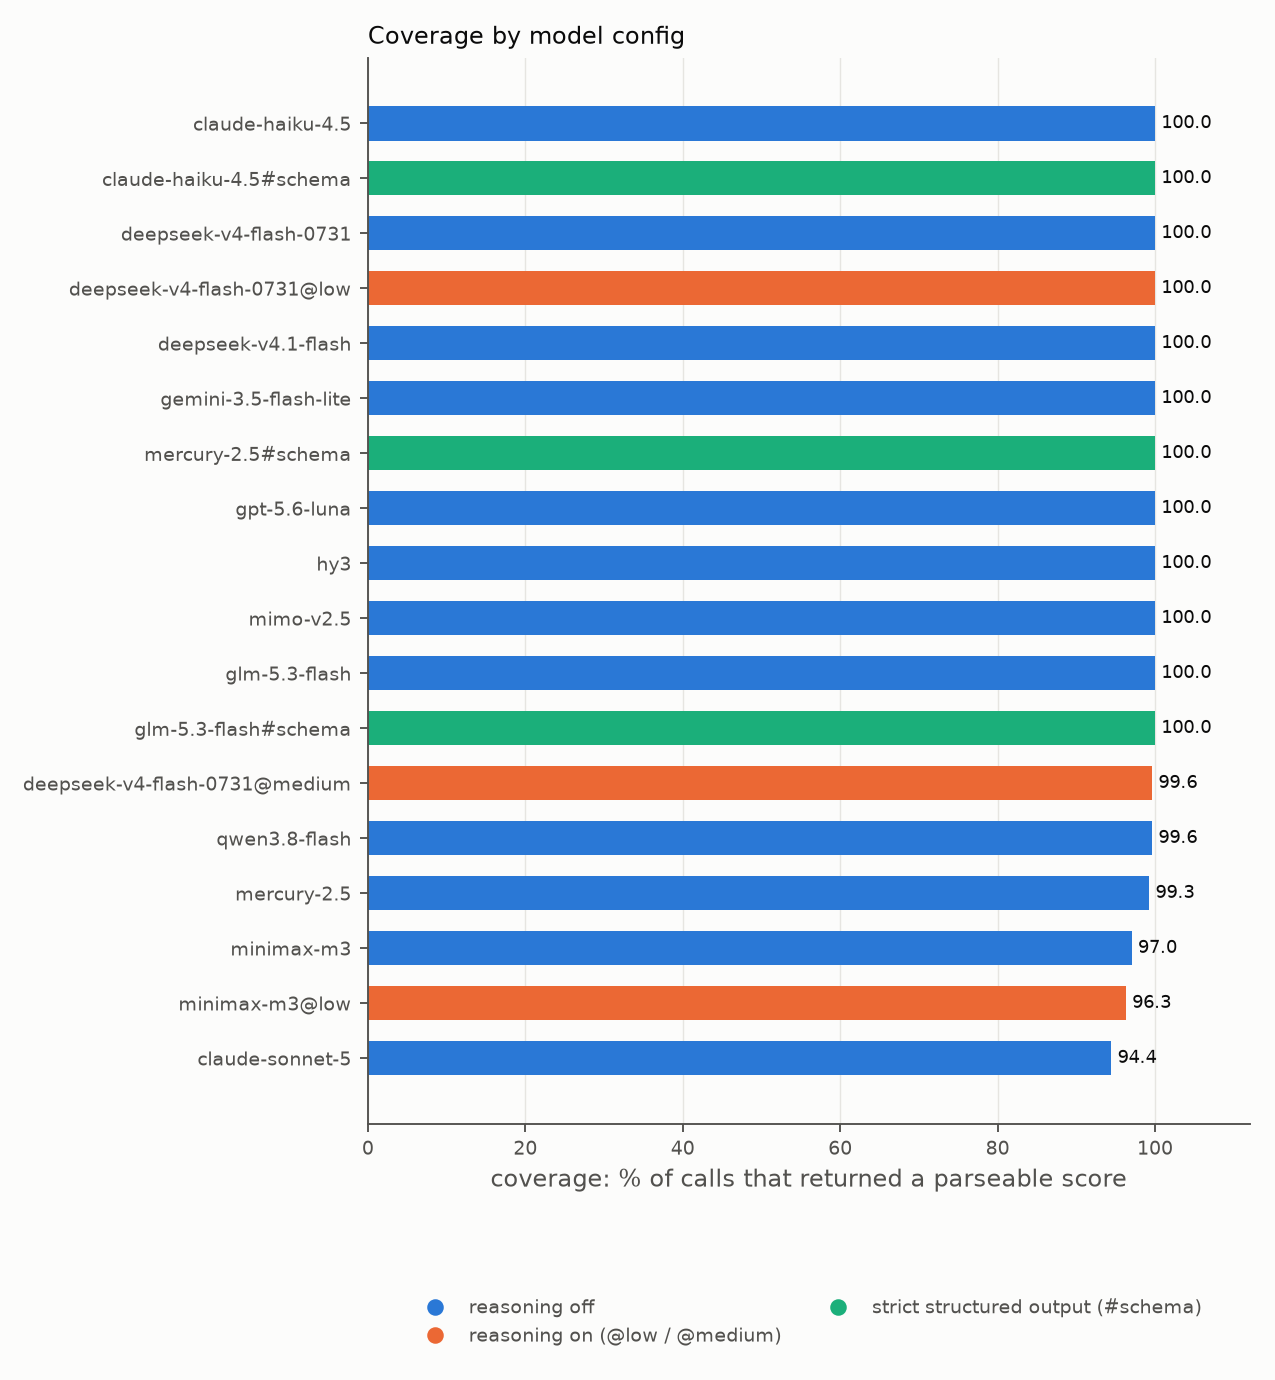
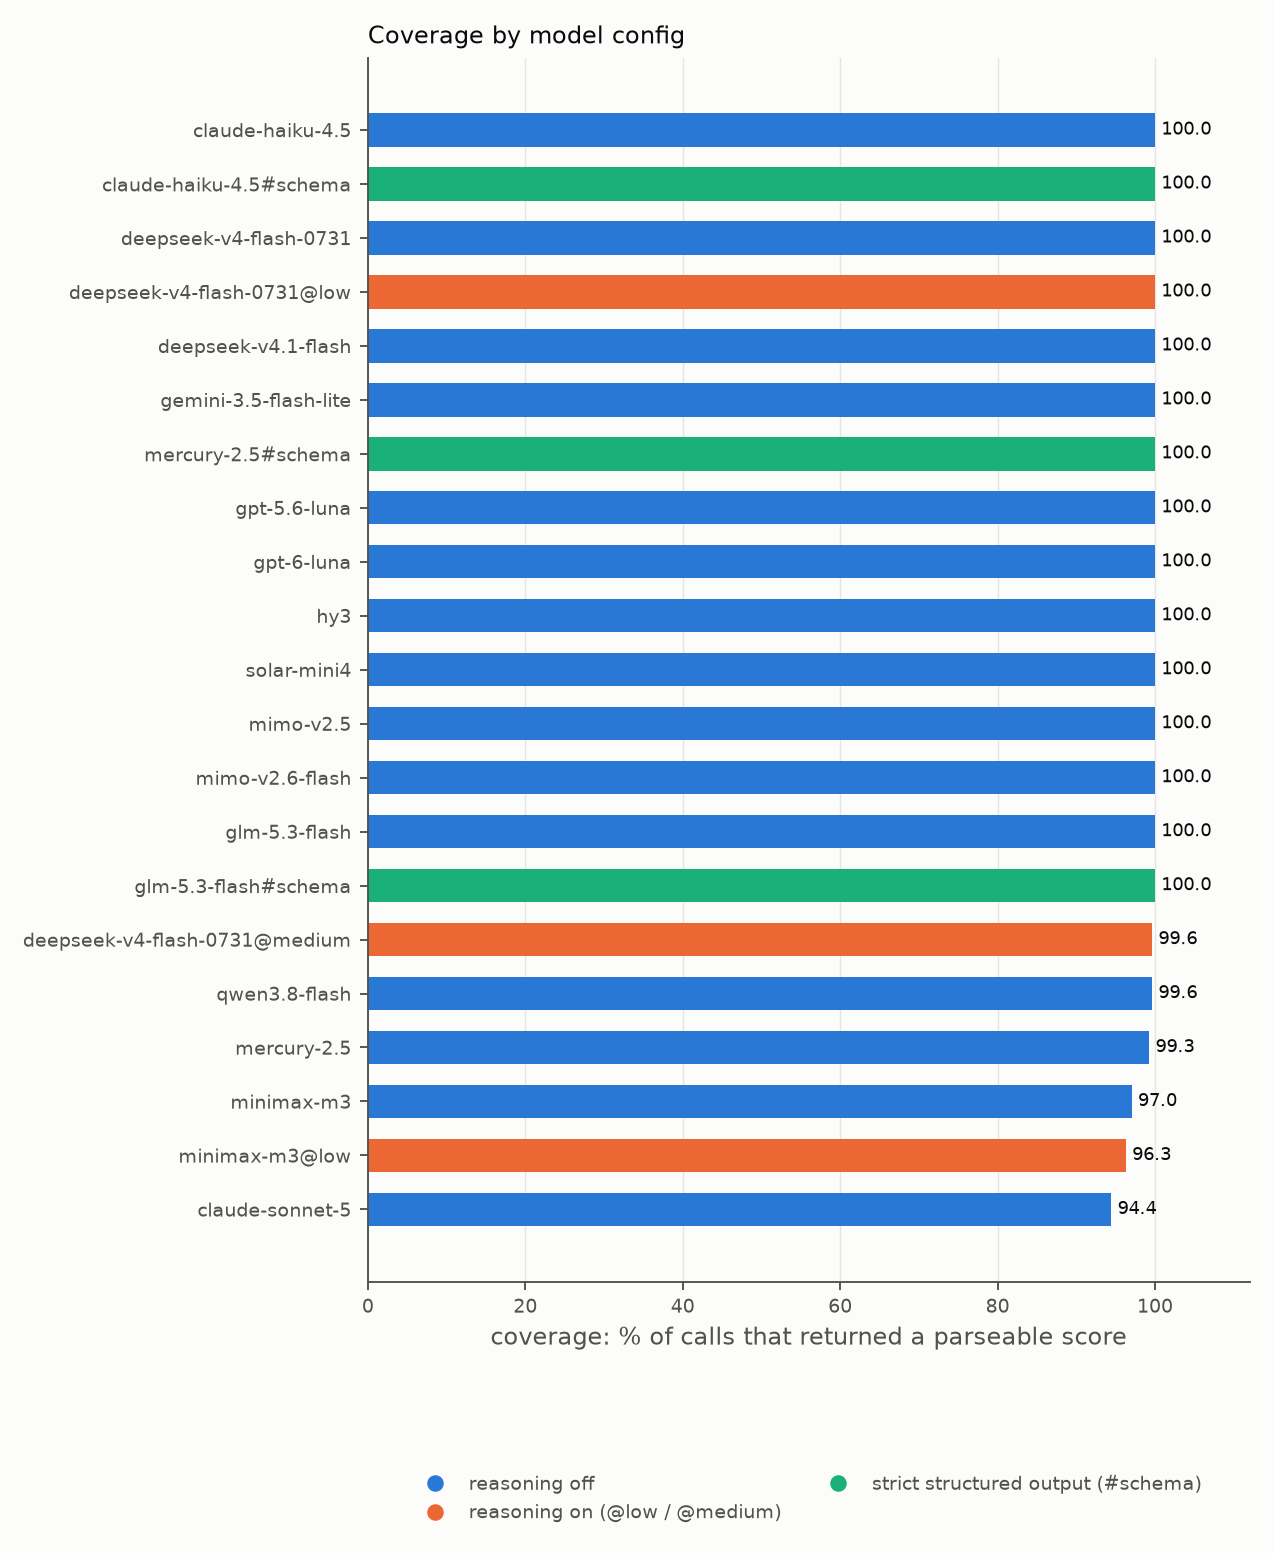
analyze: a model is usable when it leaves no preprint unscored, not at 99% of calls
The 99% per-call bar treated a miss a retry recovers the same as a preprint never scored.
MiniMax M3 @low failed 10 of 270 calls, each on a different preprint, never twice on one,
while the ceiling itself left 4 preprints unscored on all three tries. Retrying is cheap and
the intern can do it, so the bar is now the blind spot, not the miss.

- analyze: per-model `unscored` (preprints with no score in any repeat) and `usable`
  (unscored <= MAX_UNSCORED = 0) replace USABLE_COV; best_usable, the disagreement audit and
  the figure read `usable`. results.csv and results.md gain an `unscored` column.
- gate.py: --min-cov becomes --max-unscored (default 0); hy3 still passes every check.
- intern.score retries a call that returns no score up to twice and charges every call.
- Result: every challenger is usable; minimax-m3@low (MAE 0.072) is the reference, hy3 next at
  0.088 and 4.5x cheaper, matching or beating it in 4% of resamples. The pre-registered
  ensembles stay as registered. The three 2026-10-03 additions land in the bottom third.
- Regenerated results/, docs/RESULTS.md table and prose, README short answer, METRICS, RUNNING
  and INTERN docs; the published-data test now pins minimax-m3@low as the reference.

diff --git a/figures.py b/figures.py
@@ -2,7 +2,8 @@
 
 Palette: categorical slots 1-3 of the validated default (blue = reasoning off, orange = reasoning
 on, aqua = strict structured output); derived rows (ens:, baseline:) are hollow markers; rows
-below USABLE_COV coverage are hollow and MUTED (3.6:1 on the surface), so the eye does not land
+that leave a preprint unscored in every repeat (analyze: usable) are hollow and MUTED (3.6:1
+on the surface), so the eye does not land
 on a model that cannot be used; text in ink tokens, recessive grid, no dashed rules. Each dot
 carries a number, placed so none collide (_place_labels), and a key below the plot names it.
 """
@@ -14,7 +15,7 @@ from pathlib import Path
 
 import matplotlib
 
-from analyze import DERIVED, USABLE_COV
+from analyze import DERIVED
 
 matplotlib.use("Agg")
 import matplotlib.pyplot as plt  # noqa: E402
@@ -49,8 +50,8 @@ def _style(ax) -> None:
     ax.set_axisbelow(True)
 
 
-def _color(label: str, cov: float = 100.0) -> str:
-    if cov < USABLE_COV:
+def _color(label: str, usable: bool = True) -> str:
+    if not usable:
         return MUTED
     if "#schema" in label:
         return SCHEMA
@@ -59,7 +60,7 @@ def _color(label: str, cov: float = 100.0) -> str:
 
 def _legend(ax, muted: bool = False, **kw) -> None:
     dot = dict(marker="o", ls="")
-    unusable = f"below {USABLE_COV:.0f}% coverage: not usable"
+    unusable = "leaves a preprint unscored in 3 tries: not usable"
     handles = [
         *([Line2D([], [], color=MUTED, mfc=SURFACE, label=unusable, **dot)] if muted else []),
         Line2D([], [], color=BASE, label="reasoning off", **dot),
@@ -75,14 +76,14 @@ def _scatter_points(ax, pts: list[tuple[str, dict]]) -> list[tuple[str, tuple, s
     marker repeated); return (number, xy, ink) for _place_labels."""
     labels, key = [], []
     for n, (k, r) in enumerate(pts, 1):
-        color, xy = _color(k, r["cov"]), (r["cost_usd"], r["mae"])
+        color, xy = _color(k, r["usable"]), (r["cost_usd"], r["mae"])
         if not math.isnan(r["mae_lo"] + r["mae_hi"]):
             err = [[r["mae"] - r["mae_lo"]], [r["mae_hi"] - r["mae"]]]
             ax.errorbar(*xy, yerr=err, fmt="none", ecolor=color, elinewidth=1, alpha=0.6, zorder=2)
         face = SURFACE if r["derived"] or color == MUTED else color
         ax.scatter(*xy, s=MARKER, facecolor=face, edgecolor=color, lw=1.6, zorder=3)
         muted = color == MUTED
-        name = f"{n}  {_short(k)}" + (f" ({r['cov']:.1f}% cov)" if muted else "")
+        name = f"{n}  {_short(k)}" + (f" ({r['unscored']} never scored)" if muted else "")
         key.append(Line2D([], [], marker="o", ls="", color=color, mfc=face, label=name))
         labels.append((str(n), xy, INK2 if muted else INK))
     kw = dict(frameon=False, fontsize=7.5, labelcolor=INK, handletextpad=0.3, columnspacing=1.5)
@@ -158,7 +159,7 @@ def plot_mae_vs_cost(m: dict, out: Path, ceiling: str) -> None:
     ax.set_ylabel(f"MAE vs {_short(ceiling)} (lower is better)", color=INK2)
     title = "Agreement with the ceiling vs. price per call"
     ax.set_title(title, color=INK, fontsize=10, loc="left")
-    _legend(ax, muted=True)
+    _legend(ax, muted=not all(r["usable"] for _, r in pts))
     fig.canvas.draw()  # runs the layout and fixes the legend's spot before the numbers go in
     _place_labels(ax, numbers)
     _save(fig, out / "fig_mae_vs_cost.png")

diff --git a/analyze.py b/analyze.py
@@ -11,7 +11,9 @@ Metrics, per model config:
   mae         mean over preprints of |model mean - ceiling mean| (agreement with the ceiling)
   mae_lo/hi   95% bootstrap interval on mae: preprints resampled with replacement (bootstrap.py)
   mae_diff_p  paired bootstrap: share of resamples where this model's MAE <= the best usable
-              model's (lowest MAE at >= USABLE_COV coverage). 1.0 for the reference itself.
+              model's (lowest MAE among usable models). 1.0 for the reference itself.
+  unscored    preprints with no parseable score in any repeat. A model is usable when this is
+              0: a miss that a retry recovers costs a call, a paper never scored is a blind spot
   spearman    rank correlation between the model's and the ceiling's per-preprint means
   kappa_0.5   Cohen's kappa on the decision score >= 0.5, model vs ceiling (agreement.py)
   alpha_ord   Krippendorff's alpha over 0.1 bins, squared bin distance, model vs ceiling
@@ -46,6 +48,7 @@ CEILING = "anthropic/claude-sonnet-5"
 COLUMNS = (
     "label",
     "cov",
+    "unscored",
     "strict",
     "cov_strict",
     "cov_lenient",
@@ -69,7 +72,7 @@ COLUMNS = (
 )
 VIOLATION_AT = 0.5
 SHORTLIST = 10
-USABLE_COV = 99.0
+MAX_UNSCORED = 0  # usable: every preprint scored within the repeats
 DERIVED = ("baseline:", "ens:")  # rows computed from other rows, not API calls
 UNSCALED = ("baseline:",)  # not a fit score: MAE against the ceiling is meaningless
 
@@ -128,8 +131,11 @@ def _one(by_item: dict, ceiling_means: dict) -> dict:
     sig = [st.stdev(s) for rs in by_item.values() if len(s := _scores(rs)) >= 2]
     costs = [c for r in runs if (c := r.get("cost_usd")) is not None]
     off = [r for r in scored if r["lane"] == "off"]
+    unscored = sum(1 for rs in by_item.values() if not _scores(rs))
     return {
         "cov": 100 * len(scored) / len(runs),
+        "unscored": unscored,
+        "usable": unscored <= MAX_UNSCORED,
         "strict": 100 * sum(bool(r.get("strict_json")) for r in scored) / len(scored)
         if scored
         else math.nan,
@@ -146,9 +152,10 @@ def _one(by_item: dict, ceiling_means: dict) -> dict:
 
 def best_usable(m: dict, ceiling: str) -> str:
     """Reference for the paired test: lowest MAE among single (non-derived, non-ceiling) models
-    at >= USABLE_COV coverage; falls back to the lowest MAE overall, then to the ceiling."""
+    among usable models (every preprint scored within the repeats); falls back to the lowest
+    MAE overall, then to the ceiling."""
     cands = [k for k, r in m.items() if k != ceiling and not (math.isnan(r["mae"]) or r["derived"])]
-    usable = [k for k in cands if m[k]["cov"] >= USABLE_COV] or cands or [ceiling]
+    usable = [k for k in cands if m[k]["usable"]] or cands or [ceiling]
     return min(usable, key=lambda k: m[k]["mae"])
 
 

diff --git a/gate.py b/gate.py
@@ -1,6 +1,6 @@
 """Exit-code gate for the re-run: is the production model still fit to ship?
 
-    uv run python gate.py --model tencent/hy3 --min-cov 99 --max-mae-hi 0.12 --min-top10 5 \\
+    uv run python gate.py --model tencent/hy3 --max-unscored 0 --max-mae-hi 0.12 --min-top10 5 \\
         --max-violations 2
 
 Reads results/results.csv, prints one PASS/FAIL line per check plus a final verdict, exits 0
@@ -23,7 +23,7 @@ MODELS_URL = "https://openrouter.ai/api/v1/models"
 
 
 class Thresholds(NamedTuple):
-    min_cov: float
+    max_unscored: int
     max_mae_hi: float
     min_top10: int
     max_violations: int
@@ -31,10 +31,10 @@ class Thresholds(NamedTuple):
 
 def checks(row: dict, t: Thresholds) -> list[tuple[str, bool, str]]:
     """(name, passed, detail) for each threshold against one results.csv row."""
-    cov, mae_hi = float(row["cov"]), float(row["mae_hi"])
+    unscored, mae_hi = int(row["unscored"]), float(row["mae_hi"])
     top10, viol = int(row["top10"]), int(row["violations"])
     return [
-        ("cov", cov >= t.min_cov, f"{cov:.1f} >= {t.min_cov}"),
+        ("unscored", unscored <= t.max_unscored, f"{unscored} <= {t.max_unscored}"),
         ("mae_hi", mae_hi <= t.max_mae_hi, f"{mae_hi:.3f} <= {t.max_mae_hi}"),
         ("top10", top10 >= t.min_top10, f"{top10} >= {t.min_top10}"),
         ("violations", viol <= t.max_violations, f"{viol} <= {t.max_violations}"),
@@ -51,7 +51,7 @@ def _args(argv: list[str] | None) -> argparse.Namespace:
     ap = argparse.ArgumentParser(description=__doc__.splitlines()[0])
     ap.add_argument("--model", required=True)
     ap.add_argument("--csv", type=Path, default=Path("results/results.csv"))
-    ap.add_argument("--min-cov", type=float, default=99.0)
+    ap.add_argument("--max-unscored", type=int, default=0, help="papers never scored in 3 tries")
     ap.add_argument("--max-mae-hi", type=float, default=0.12)
     ap.add_argument("--min-top10", type=int, default=5)
     ap.add_argument("--max-violations", type=int, default=2)
@@ -64,7 +64,7 @@ def main(argv: list[str] | None = None) -> int:
     if a.model not in rows:
         print(f"FAIL  {a.model} has no row in {a.csv}\nFAIL")
         return 1
-    t = Thresholds(a.min_cov, a.max_mae_hi, a.min_top10, a.max_violations)
+    t = Thresholds(a.max_unscored, a.max_mae_hi, a.min_top10, a.max_violations)
     listed = a.model in live_model_ids()
     results = checks(rows[a.model], t) + [
         ("listed", listed, "id listed by OpenRouter" if listed else "id not listed by OpenRouter")

diff --git a/tests/test_metrics.py b/tests/test_metrics.py
@@ -248,7 +248,7 @@ def test_results_table_roundtrip(tmp_path, rows):
     report.write_tables(m, tmp_path)
     csv = (tmp_path / "results.csv").read_text().splitlines()
     assert csv[0].startswith(
-        "label,cov,strict,cov_strict,cov_lenient,cov_repaired,violations,sigma,mae,mae_lo,mae_hi,mae_diff_p,spearman,kappa_0.5,alpha_ord,kappa_top10,len_rho,top10"
+        "label,cov,unscored,strict,cov_strict,cov_lenient,cov_repaired,violations,sigma,mae,mae_lo,mae_hi,mae_diff_p,spearman,kappa_0.5,alpha_ord,kappa_top10,len_rho,top10"
     )
     assert json.dumps(m)  # serializable
 
@@ -390,11 +390,11 @@ def test_violations_count_calls_not_preprints(rows):
     assert len({r["doi"] for r in off}) == 1 and m["violations"] == 2
 
 
-def test_rows_below_usable_coverage_are_greyed_out():
+def test_unusable_rows_are_greyed_out():
     import figures
 
-    assert figures._color("a/b", analyze.USABLE_COV - 0.1) == figures.MUTED
-    assert figures._color("a/b", analyze.USABLE_COV) == figures.BASE
+    assert figures._color("a/b", usable=False) == figures.MUTED
+    assert figures._color("a/b") == figures.BASE
     assert figures._color("a/b@low") == figures.REASONING  # the coverage chart never mutes
 
 
@@ -440,3 +440,12 @@ def test_mae_chart_numbers_each_dot_and_keys_the_names_closest_first(tmp_path, r
     assert sorted(t.get_text() for t in fig.axes[0].texts) == ["1", "2"]
     key = [t.get_text().split()[:2] for t in fig.legends[0].get_texts()]
     assert key == [["1", "m"], ["2", "far"]]  # m sits closer to the ceiling; provider dropped
+
+
+def test_usable_means_every_paper_scored_within_the_repeats(rows):
+    # misses a call on every paper but never a whole paper: usable at 67% per-call coverage
+    rows += [row("x/flaky", d, i, None if i == 0 else 0.8) for d in "abc" for i in range(3)]
+    m = analyze.metrics(rows, CEILING)
+    assert (m["m"]["unscored"], m["m"]["usable"]) == (1, False)  # item c never scored
+    assert m["x/flaky"]["cov"] == pytest.approx(200 / 3) and m["x/flaky"]["unscored"] == 0
+    assert m["x/flaky"]["usable"] and analyze.best_usable(m, CEILING) == "x/flaky"

diff --git a/disagreement.py b/disagreement.py
@@ -1,8 +1,9 @@
 """Disagreement audit: which preprints do the usable models split on most, and least.
 
-For each preprint, take every usable model's mean score (>= USABLE_COV coverage, ceiling excluded)
-and rank preprints by the population std dev of those means, highest first. The items at the top
-are the ones a human should read; the mirror list (lowest spread) shows what everyone agrees on.
+For each preprint, take every usable model's mean score (no preprint left unscored, ceiling
+excluded) and rank preprints by the population std dev of those means, highest first. The items
+at the top are the ones a human should read; the mirror list (lowest spread) shows what everyone
+agrees on.
 """
 
 from __future__ import annotations
@@ -11,8 +12,6 @@ import statistics as st
 from collections import defaultdict
 from typing import NamedTuple
 
-from analyze import USABLE_COV
-
 
 class Spec(NamedTuple):
     ceiling: str
@@ -20,7 +19,7 @@ class Spec(NamedTuple):
 
 
 def usable_labels(m: dict, ceiling: str) -> list[str]:
-    return sorted(k for k, r in m.items() if k != ceiling and r["cov"] >= USABLE_COV)
+    return sorted(k for k, r in m.items() if k != ceiling and r["usable"])
 
 
 def _means(rows: list[dict]) -> tuple[dict, dict]:
@@ -82,7 +81,8 @@ def markdown(rows: list[dict], m: dict, spec: Spec) -> str:
         f"# Where the {n_models} usable models disagree",
         "",
         f"Population std dev of the per-model mean score, over the {n_models} usable models "
-        f"(>= {USABLE_COV:.0f}% coverage, ceiling excluded). `ceiling` is the ceiling's own mean.",
+        "(every preprint scored within the repeats, ceiling excluded). `ceiling` is the "
+        "ceiling's own mean.",
         "",
         f"## Top {len(top)} most disputed",
         "",

diff --git a/report.py b/report.py
@@ -35,6 +35,7 @@ def _cells(k: str, r: dict) -> list[str]:
     return [
         f"_{k}_" if r["derived"] else k,
         f"{r['cov']:.1f}",
+        str(r["unscored"]),
         f"{r['strict']:.1f}",
         " / ".join(_num(r[c], ".1f") for c in ("cov_strict", "cov_lenient", "cov_repaired")),
         str(r["violations"]),
@@ -52,11 +53,12 @@ def _cells(k: str, r: dict) -> list[str]:
 
 
 def write_md(m: dict, path: Path) -> None:
-    cols = "| model | cov% | strict% | ladder strict / lenient / repaired | wrong-field | sigma "
+    cols = "| model | cov% | unscored | strict% | ladder strict / lenient / repaired "
+    cols += "| wrong-field | sigma "
     cols += "| MAE vs ceiling [95% CI] | P(<= best) |"
     md = [
         f"{cols} rho | kappa | alpha | len rho | top-{SHORTLIST} | latency s | $/call |",
-        "|---|---:|---:|---:|---:|---:|---:|---:|---:|---:|---:|---:|---:|---:|---:|",
+        "|---|---:|---:|---:|---:|---:|---:|---:|---:|---:|---:|---:|---:|---:|---:|---:|",
     ]
     md += ["| " + " | ".join(_cells(k, r)) + " |" for k, r in m.items()]
     path.write_text("\n".join(md) + "\n")

diff --git a/intern/run.py b/intern/run.py
@@ -35,6 +35,7 @@ BUDGET_USD = 0.25  # 14 days on all three servers was 956 first postings (2026-1
 EST_PER_CALL = 0.0001  # generous: hy3 measured $0.00006
 MIN_GAP_DAYS = 13
 WORKERS = 8
+RETRIES = 2  # the bakeoff calls a model usable when every paper scores within 3 tries
 
 
 def load_seen(path: Path) -> dict:
@@ -83,6 +84,11 @@ def score(items: list[dict], model: tuple[str, str]) -> list[dict]:
     tasks = [(model, it, 0) for it in items]
     with ThreadPoolExecutor(WORKERS) as pool:
         rows = list(pool.map(harness.run_one, tasks))
+        for _ in range(RETRIES):  # a miss a retry recovers costs a call; a skipped paper is lost
+            todo = [i for i, r in enumerate(rows) if r.get("fit_score") is None]
+            for i, r in zip(todo, pool.map(harness.run_one, [tasks[i] for i in todo]), strict=True):
+                r["cost_usd"] = (r.get("cost_usd") or 0) + (rows[i].get("cost_usd") or 0)
+                rows[i] = r
     rows = [
         r | it for r, it in zip(rows, items, strict=True)
     ]  # harness rows cut the title to 120 chars

diff --git a/tests/test_intern.py b/tests/test_intern.py
@@ -288,3 +288,20 @@ def test_live_run_sends_and_records(monkeypatch, tmp_path):
     assert len(sent) == 1 and len(sent[0].picks) == 2
     assert json.loads(seen_path.read_text())["last_sent"] == date.today().isoformat()
     assert run.main([]) == 0 and len(sent) == 1  # not due again: nothing sent
+
+
+def test_score_retries_unscored_papers_twice_and_charges_every_call(monkeypatch):
+    calls = {}
+
+    def flaky(t):
+        doi = t[1]["doi"]
+        calls[doi] = calls.get(doi, 0) + 1
+        ok = doi == "second-try" and calls[doi] > 1
+        return {"doi": doi, "fit_score": 0.5 if ok else None, "cost_usd": 0.001}
+
+    monkeypatch.setattr(run.harness, "run_one", flaky)
+    got = {r["doi"]: r for r in run.score([{"doi": "second-try"}, {"doi": "never"}], ("m", "off"))}
+    assert got["second-try"]["fit_score"] == 0.5 and calls["second-try"] == 2
+    assert got["second-try"]["cost_usd"] == pytest.approx(0.002)
+    assert got["never"]["fit_score"] is None and calls["never"] == 3
+    assert got["never"]["cost_usd"] == pytest.approx(0.003)

diff --git a/tests/test_gate.py b/tests/test_gate.py
@@ -7,12 +7,12 @@ import pytest
 
 import gate
 
-ROW = {"label": "x/m", "cov": "99.5", "mae_hi": "0.11", "top10": "6", "violations": "1"}
+ROW = {"label": "x/m", "unscored": "0", "mae_hi": "0.11", "top10": "6", "violations": "1"}
 ARGS = [
     "--model",
     "x/m",
-    "--min-cov",
-    "99",
+    "--max-unscored",
+    "0",
     "--max-mae-hi",
     "0.12",
     "--min-top10",
@@ -33,9 +33,9 @@ def csv_path(tmp_path):
 
 
 def test_checks_pass_and_fail_on_thresholds():
-    ok = gate.checks(ROW, gate.Thresholds(99, 0.12, 5, 2))
+    ok = gate.checks(ROW, gate.Thresholds(0, 0.12, 5, 2))
     assert all(passed for _, passed, _ in ok) and len(ok) == 4
-    bad = gate.checks(ROW, gate.Thresholds(99.9, 0.10, 7, 0))  # every threshold missed
+    bad = gate.checks(ROW, gate.Thresholds(-1, 0.10, 7, 0))  # every threshold missed
     assert not any(passed for _, passed, _ in bad)
 
 

diff --git a/tests/test_disagreement.py b/tests/test_disagreement.py
@@ -14,7 +14,7 @@ def _rows():
         "hi": {"a": 0.9, "b": 0.5, "c": 0.5},
         "lo": {"a": 0.1, "b": 0.5, "c": 0.5},
         "mid": {"a": 0.5, "b": 0.6, "c": 0.5},
-        "flaky": {"a": 0.0, "b": 0.0, "c": 0.0},  # below the coverage floor, must be ignored
+        "flaky": {"a": 0.0, "b": 0.0, "c": 0.0},  # leaves papers unscored: must be ignored
     }
     meta = {
         "a": ("A title", "genomics", "in"),
@@ -37,7 +37,9 @@ def _rows():
 
 
 def _metrics():
-    return {k: {"cov": 100.0} for k in (CEILING, "hi", "lo", "mid")} | {"flaky": {"cov": 50.0}}
+    return {k: {"usable": True} for k in (CEILING, "hi", "lo", "mid")} | {
+        "flaky": {"usable": False}
+    }
 
 
 def test_usable_labels_excludes_ceiling_and_low_coverage():

diff --git a/tests/test_bootstrap.py b/tests/test_bootstrap.py
@@ -55,4 +55,7 @@ def test_reproduces_prototype_intervals_on_published_data():
     hy3, haiku = m["tencent/hy3"], m["anthropic/claude-haiku-4.5"]
     assert (hy3["mae_lo"], hy3["mae_hi"]) == pytest.approx((0.068, 0.110), abs=0.005)
     assert (haiku["mae_lo"], haiku["mae_hi"]) == pytest.approx((0.117, 0.158), abs=0.005)
-    assert hy3["mae_diff_p"] == 1.0  # hy3 is the best usable model, so it is its own reference
+    # every preprint scored within 3 tries makes minimax-m3@low usable at 96.3% per-call coverage:
+    # it is the reference, and hy3 matches or beats it in 4% of resamples
+    assert m["minimax/minimax-m3@low"]["mae_diff_p"] == 1.0
+    assert hy3["mae_diff_p"] == pytest.approx(0.043, abs=0.01)

diff --git a/ensembles.py b/ensembles.py
@@ -15,6 +15,8 @@ import statistics as st
 from collections import defaultdict
 
 ENSEMBLES = [
+    # Picked 2026-09-12 under the earlier usability rule (>= 99% of single calls scored), kept
+    # as registered rather than re-picked under the retry-aware rule.
     # best MAE + steadiest sigma + best top-10 among usable single models
     ("tencent/hy3", "google/gemini-3.5-flash-lite", "deepseek/deepseek-v4.1-flash"),
     # the three cheapest usable models by $/call
